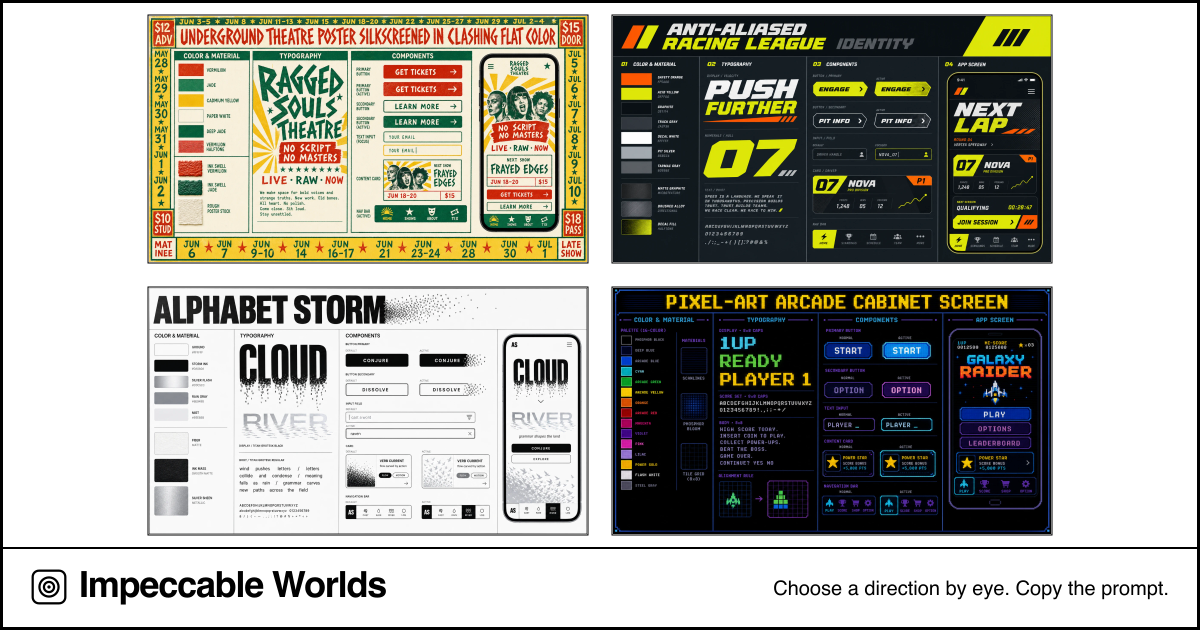
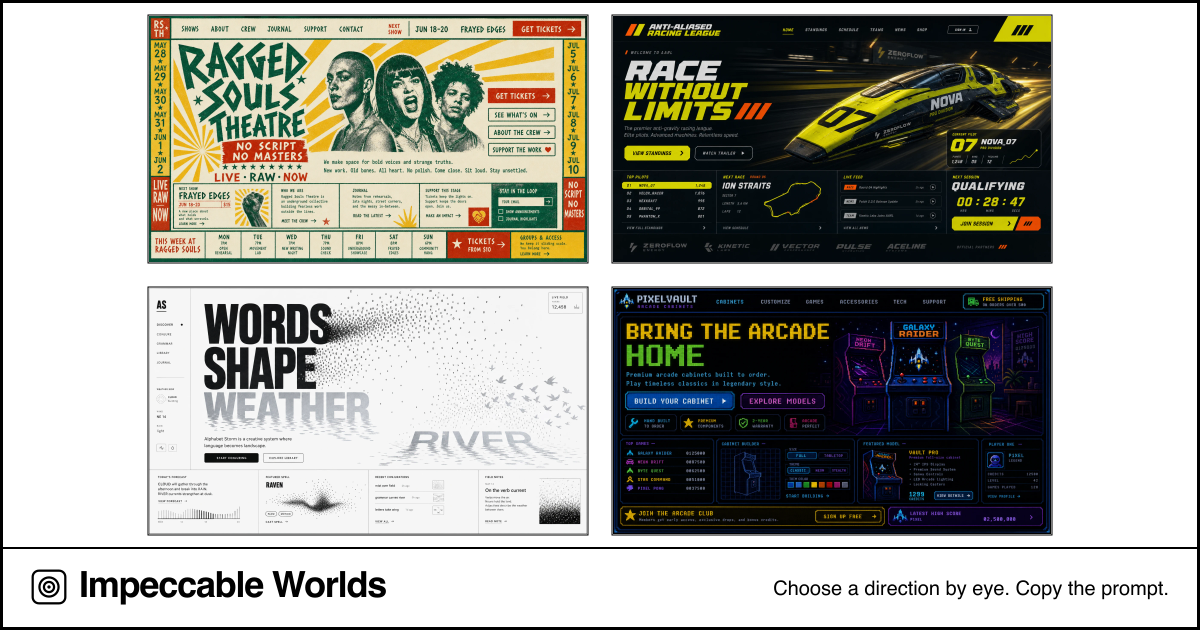
Hang landing heroes on the share card so the OG salon shows each world's preview, not its styleguide board.

Changed region(s): [[0.1233, 0.0, 0.8942, 0.4222], [0.1233, 0.4524, 0.8942, 0.8444]]

diff --git a/scripts/og-card.html b/scripts/og-card.html
@@ -4,7 +4,7 @@
     <meta charset="UTF-8" />
     <title>OG card</title>
     <!--
-      1200×630 share card: four representative catalog worlds, whole boards.
+      1200×630 share card: four representative catalog worlds, landing heroes.
       Angura Theatre Poster · Antialiased Racing League · Alphabet Storm · CRT Arcade Pixel Glow.
       Hung faces come from data/worlds.json via scripts/generate-og.mjs.
     -->
